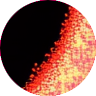
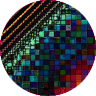
diagonal images

diff --git a/content/posts/337.diagonal.md b/content/posts/337.diagonal.md
@@ -137,6 +137,8 @@ The strange attractor has *nonintegral dimension*. The usual explanation for thi
 
 This is why they talk of "stretching and folding": nearby points diverge, distant points converge, and in this dual action the attractor's shape is drawn.
 
+![lorenz attractor](/covers/lorenz.svg)
+
 But this argument is backwards, as most mathematical proofs seem to be. It *argues from definitions* to the plotted data, without attempting any real causal theory. Again I lean toward the *dissipative search*: why would a phase transition produce a fractal in statespace? Under what conditions would this be the path of least resistance?
 
 * Why asymptotic approach? Because there is no other optimum dissipation mode. Initial paths will converge here as long the energetic throughput remains steady. An attractor is an order's last compromise with chaos.
@@ -144,8 +146,6 @@ But this argument is backwards, as most mathematical proofs seem to be. It *argu
 * Why neighbor divergence? The usual argument from chaos theory says, "because the system displays sensitive dependence on initial conditions": but that's not an explanation of the dynamics. Why should a system be so sensitive to small differences? Because it is *poised*, because it amplifies friction into signal, because the tension between constraint and input energy propagates perturbation upward and downward.
 
 It's important we understand the difference between fractals in statespace, like strange attractors, and a fractal in material space, like a coastline. Yet another thing I have not seen stated in the literature, is this: most likely the fractals Mandelbrot found in nature are the *traces of statespace fractals*. On the other hand, the argument I just gave for the "sensitive dependence on initial conditions" so prominent in chaos theory - the butterfly in Brazil which causes a tornado in Kansas - shows how the realized material structure must in turn shape the possible evolution of the system. In fact, this may be the secret of complex dynamics: that the future evolution of the system and the traces it leaves behind itself shape one another. That is what we mean by "nonlinear".
-
-<!-- TODO: image of Lorenz attractor -->
 
 #### .9
 
